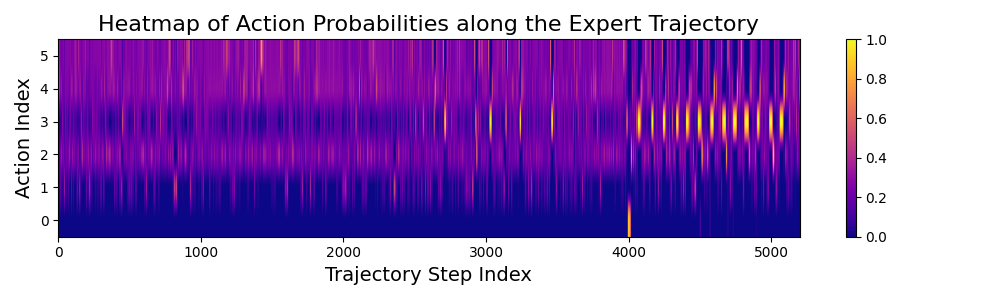
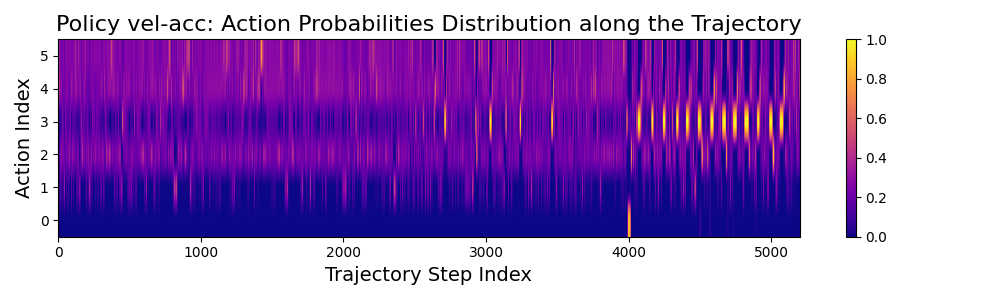
commit

Changed region(s): [[0.031, 0.03, 0.806, 0.12]]

diff --git a/plot_evaluate.py b/plot_evaluate.py
@@ -201,7 +201,7 @@ def plot_replicated_action_prob(q_values, state_indices, test_folder):
     plt.figure(figsize=(10, 3))
     plt.imshow(q_values[state_indices].T, cmap="plasma", aspect='auto')
     # plt.title("Heatmap of Action Probabilities along the Replicated Trajectory", fontsize=16)
-    plt.title("Policy vel-dir: Action Probabilities Distribution along the Trajectory", fontsize=16)
+    plt.title("Policy vel-acc: Action Probabilities Distribution along the Trajectory", fontsize=16)
     plt.tick_params(axis='both', which='minor', labelsize=12)
     plt.xlabel("Trajectory Step Index", fontsize=14)
     plt.ylabel("Action Index", fontsize=14)
